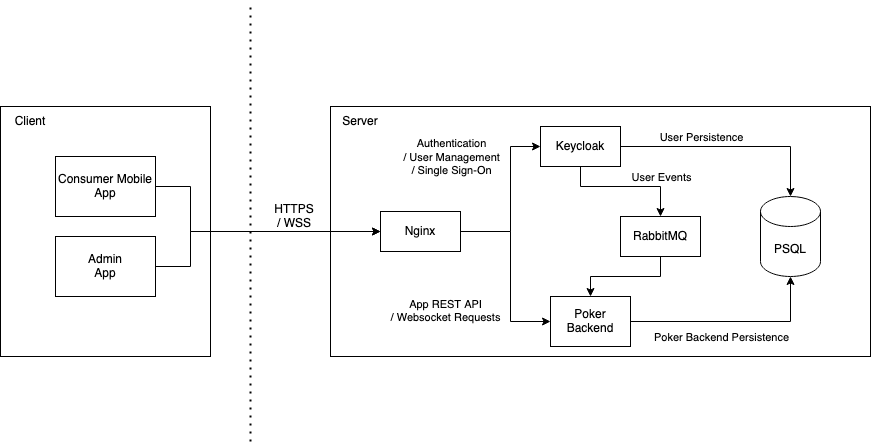
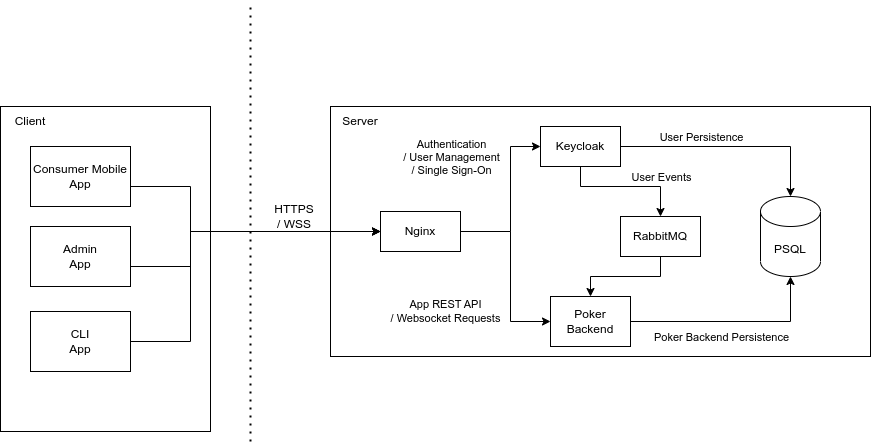
adding some text about new cli client for testing

diff --git a/client/android/app/src/main/java/com/twb/pokerapp/data/websocket/message/client/SendChatMessageDTO.java b/client/android/app/src/main/java/com/twb/pokerapp/data/websocket/message/client/SendChatMessageDTO.java
@@ -1,5 +1,7 @@
 package com.twb.pokerapp.data.websocket.message.client;
 
+import androidx.annotation.NonNull;
+
 public class SendChatMessageDTO {
     private String message;
 
@@ -11,6 +13,7 @@ public class SendChatMessageDTO {
         this.message = message;
     }
 
+    @NonNull
     @Override
     public String toString() {
         return "SendChatMessageDTO{" +

diff --git a/client/android/app/src/main/java/com/twb/pokerapp/data/retrofit/api/PokerTableApi.java b/client/android/app/src/main/java/com/twb/pokerapp/data/retrofit/api/PokerTableApi.java
@@ -12,5 +12,6 @@ import retrofit2.http.QueryMap;
 public interface PokerTableApi {
 
     @GET("/poker-table")
-    Call<List<TableDTO>> getPokerTables(@QueryMap(encoded = true) Map<String, Integer> queryParamsMap);
+    Call<List<TableDTO>> getPokerTables(
+            @QueryMap(encoded = true) Map<String, Integer> params);
 }

diff --git a/README.md b/README.md
@@ -62,6 +62,11 @@ sudo apt install adb
 - Can be very basic for now but I would want this in place to make configuration easier once the application is
   deployed.
 
+#### CLI App
+
+- A CLI application used primarily for test purpose to listen to websocket messages.
+- The user will log in as a listener user, and will select a Table ID and receive all messages on that table.
+
 #### Nginx
 
 - A reverse proxy used to forward requests from the outside towards their respective internal services.
